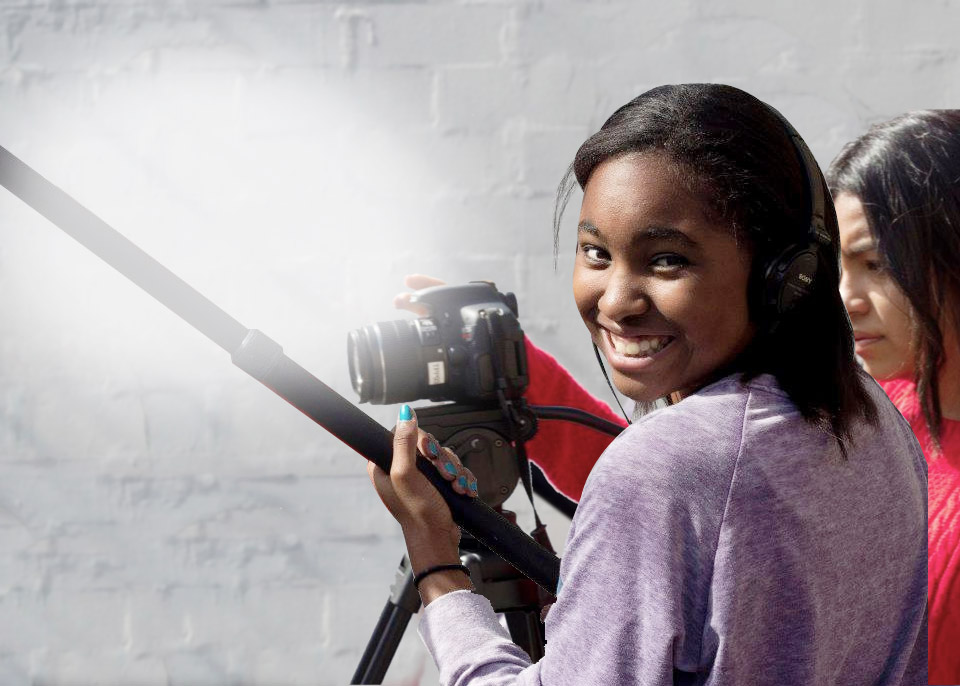
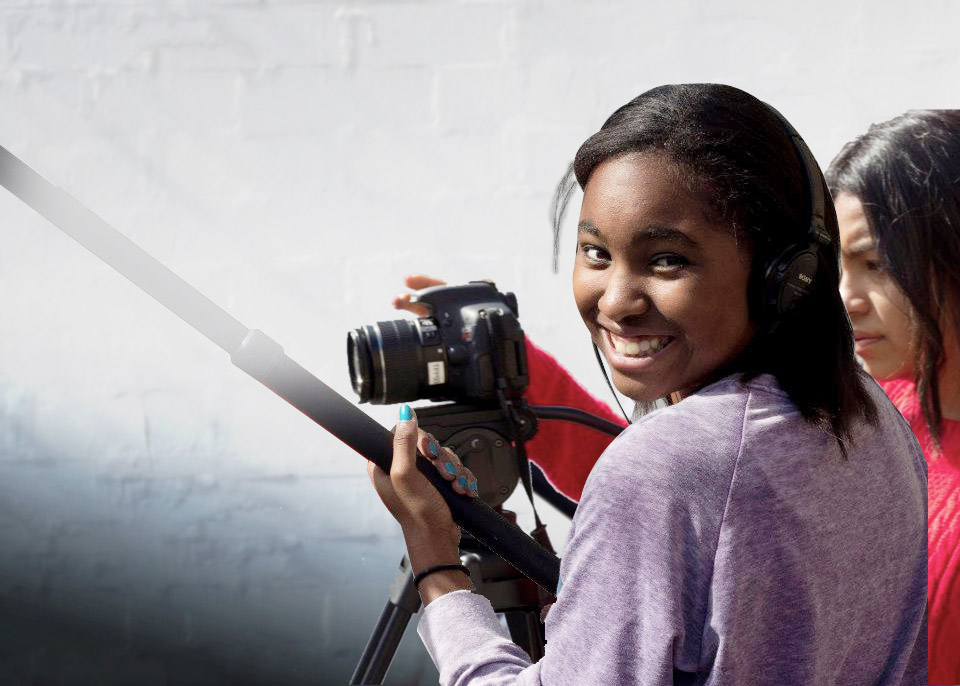
here's the updated index and images

diff --git a/templates/index.html b/templates/index.html
@@ -2,26 +2,35 @@ $def with (header, footer)
 $:header
 
 <div class="container-fluid">
-    <div class="jumbotron">    
+    <div class="jumbotron">
+        <div id="bg">
+            <img src="/images/teen_producers.jpg" alt="">
+        </div>    
         <div class="row">
             <div class="form-group col-xs-12 col-md-6">
-                <div class="splash_text_bg ">
-                     <h1>Connecting Bay Area youth with after school programs.</h1>
-                    <p style="font-size: 18px;">Find an after school program in your neighborhood:</p>
+                <!-- <div class="h1_text_bg"> -->
+                    <img src="/images/BayP_logo.png" alt="" class="img-responsive" />
+                    <h1>Connecting Bay Area youth with after school programs.</h1>
+                <!-- </div> -->
 
-                </div>
             </div>
         </div>
         <form class='form-inline' role="form" action="/listview" method='get'>
             <fieldset>
                 <div class="row">
-                <div class="form-group col-xs-12 col-md-6">
-                    <div class="splash_text_bg">
-                        <div class="row">
-                            <div class="form-group col-xs-12 col-md-6">
+                    <div class="form-group col-xs-12 col-md-6">
+                        <div class="form_text_bg">
+
+                            <div class="row">
+                                <div class="form-group col-xs-12 col-md-6">
+                                    <p id="form_direction"><strong>Find an after school program in your neighborhood:</strong></p>
+                                </div>
+                            </div>
+                            <div class="row">
+                                <div class="form-group col-xs-12 col-md-6">
                                     <input name="zip" type="text" id="search_location" class="form-control" placeholder="Zip Code, ex: 94603" >
                                     <label class="sr-only" for="search_location">Find an after school program in your neighborhood:</label>
-                            </div>
+                                </div>
                             <div class="form-group col-xs-12 col-md-6">
                                     <label class="sr-only" for="main_search">Program</label>
                                     <select name="cat" class="form-control">
@@ -36,17 +45,17 @@ $:header
                                         <option value="Theatre">Theatre</option>
                                     </select>
                             </div>
-                            <div class="row">
-                                <div class='form-group col-xs-12 col-md-6'>
-                                    <div class="splash_text_bg" >
-                                        <button type="submit" class="btn btn-primary btn-sm" style="margin-top:-25px; background-color: #2D2D2D !important;">
-                                        <span class="glyphicon glyphicon-search">
-                                        </span> GO</button>
+                                <div class="row">
+                                    <div class='form-group col-xs-12 col-md-6'>
+                                        <div class="form_text_bg" >
+                                            <button type="submit" class="btn btn-primary btn-sm" style="margin-top:-25px; background-color: #2D2D2D !important;">
+                                            <span class="glyphicon glyphicon-search">
+                                            </span> GO</button>
+                                        </div>
                                     </div>
                                 </div>
-                            </div>
-                        </div> 
-                    </div>
+                            </div> 
+                        </div>
                 </div>
                 </div>
 
@@ -55,23 +64,24 @@ $:header
     </div>
 
 </div>
-<div class="container col-md-12">
-    <div class="row">
-       	<div class="col-xs-12 col-md-4">
-          	<h3><a href='/about'>About Bay-P</a></h3>
-            <p>Bay-P is an Oakland-grown organization. Founded by Saleeha Bey . . . </p>
-        </div>
-        <div class="col-xs-12 col-md-4">
-            <h3><a href='/#'>Create a Profile</a></h3>
-            <p>Interested in keeping up with local programs or creating your own? Join our community . . . </p>
-        </div>
-        <div class="col-xs-12 col-md-4">
-          	<h3><a href='/contact'>Contact</a></h3>
-            <p>Bay-P is organized by the community it serves. Have questions? Ask the experts . . . </p>
-
+    <div class="container col-md-12">
+        <div id="bottom_info">
+            <div class="row">
+               	<div class="col-xs-12 col-md-4">
+                  	<h3 class="main_subhead"><a href='/about'>About Bay-P</a></h3>
+                    <p class="main_summary">Bay-P is an Oakland-grown organization. Founded by Saleeha Bey . . . </p>
+                </div>
+                <div class="col-xs-12 col-md-4">
+                    <h3><a href='/login'>My Profile</a></h3>
+                    <p class="main_summary">Interested in keeping up with local programs or creating your own? Join our community . . . </p>
+                </div>
+                <div class="col-xs-12 col-md-4">
+                  	<h3><a href='/contact'>Contact</a></h3>
+                    <p class="main_summary">Bay-P is organized by the community it serves. Have questions? Ask the experts . . . </p>
+                </div>
+            </div>
         </div>
     </div>
-
 </div><!-- /.container -->
 
 $:footer

diff --git a/css/index.css b/css/index.css
@@ -1,27 +1,64 @@
 
 
-.container-fluid .jumbotron {
+/*.jumbotron {
 	margin-top: -20px;
-	background-image: none;
+	background-image: url('/images/teen_producers.jpg');
+	background-position: relative;
+
 	background-repeat: no-repeat;
 	background-color: transparent;
 	border-radius: 1px;
+}*/
+
+#bg {
+  position: fixed; 
+  top: -50%; 
+  left: -50%; 
+  width: 200%; 
+  height: 200%;
+  z-index: -9999;
 }
 
-.container .jumbotron .label {
+#bg img {
+  position: absolute; 
+  top: 0; 
+  left: 0; 
+  right: 0; 
+  bottom: 0; 
+  margin: auto; 
+  min-width: 50%;
+  min-height: 50%;
+}
+
+.jumbotron {
+	background: none;
+}
+.jumbotron .label {
 	font-size: 10px;
 }
 
 h1 {
+	margin-top: -5px;
+	padding-top: -20px;
 	font-size: 24px;
 }
 
 
-.splash_text_bg {
-	opacity: .9;
+.h1_text_bg {
 	padding: 20px;
-	background-color: #3399CC;
-	color: #FFF;
+	color: #08ABCC;
+	margin-bottom: -25px;
+}
+
+#form_direction {
+	font-size: 14px; 
+	color: #fff;
+}
+
+.form_text_bg {
+	padding: 10px 20px;
+	background-color: #08ABCC;
+	opacity: .95;
 }
 
 
@@ -38,6 +75,24 @@ h1 {
 	margin-top: 20px;
 }
 
+/*.main_subhead {
+	
+}*/
+
+.main_summary {
+	font-size: 16px;
+	font-color: #2D2D2D;
+	overflow: hidden;
+	border-right: solid #3399CC 1px;
+}
+
+#bottom_info {
+	background-color: #fff;
+	width: 100%;
+	margin: auto;
+	padding: 20px;
+}
+
 @media (min-width: 454px) {
   .search-btn {
   padding-top: 28px;
@@ -50,30 +105,52 @@ h1 {
 
 /* Small devices (tablets, 768px and up) */
 @media (min-width: 768px) { 
-	.container .jumbotron .label {
+	.container-fluid .jumbotron .label {
 		font-size: 24.5px;
 	}
 }
 
 @media (min-width: 768px) { 
-h1 {
-	font-size: 44px;
-}
+	#bottom_info {
+		background-color: #fff;
+		width: 100%;
+	 	margin: auto;
+		padding: 20px;
+	}
 }
 @media (min-width: 768px) { 
-.container-fluid .jumbotron {
+	.container-fluid h1 {
+		font-size: 40px;
+	}
+}
+
+
+@media (min-width: 768px) { 
+	#form_direction {
+	font-size: 18px; 
+	color: #fff;
+	}
+}
+
+/*@media (min-width: 768px) { 
+	.jumbotron {
 	margin-top: -20px;
-	width: 100%;
-	background-size: 100%;
 	background-image: url('/images/teen_producers.jpg');
+	width: 100%;
+	background-size: cover;
+	-webkit-background-size: cover;
+    -moz-background-size: cover;
+    -o-background-size: cover;
 	background-repeat: no-repeat;
 	background-color: transparent;
 	border-radius: 1px;
 }
-}
+}*/
 
 /* Medium devices (desktops, 992px and up) */
 @media (min-width: @screen-md-min) { ... }
+
+
 
 /* Large devices (large desktops, 1200px and up) */
 @media (min-width: @screen-lg-min) { ... }
